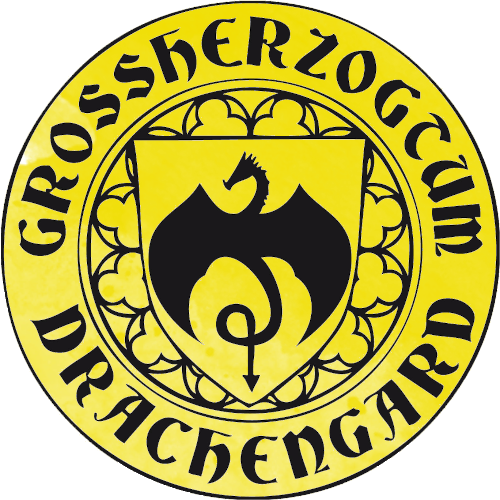
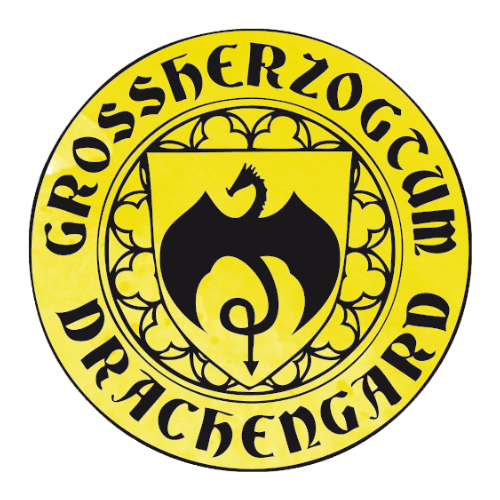
hab han heinrich vergessen

diff --git a/src/data/partners.ts b/src/data/partners.ts
@@ -17,10 +17,17 @@ export const partnerGroups: PartnerGroup[] = [
     url: 'https://drachengard.de/',
     logoSrc: '/images/ot/partner/drachengard.png'
   },
+   {
+    slug: 'kronmark',
+    name: 'Fürstentums Kronmark',
+    description: 'Im Jahr 124 hat sich die Kronmark selbst zum Fürstentum Kronmark ausgerufen. Aufgrund der noch etwas unklaren Lage im Land sind bisher wenige Neuigkeiten und Informationen nach außen gedrungen.',
+    url: 'https://koenigreich-komarn-1.jimdosite.com/',
+    logoSrc: '/images/ot/partner/kronmark.png'
+  },
   {
     slug: 'komarn',
     name: 'Königreich Komarn',
-    description: 'Das stolze Volk der Komarner hat dank der Vereinigung sich stark verändert und ist verschmolzen, zu dem was es heute darstellt. ',
+    description: 'Das stolze Volk der Komarner hat dank der Vereinigung sich stark verändert und ist verschmolzen, zu dem was es heute darstellt.',
     url: 'https://koenigreich-komarn-1.jimdosite.com/',
   },
   